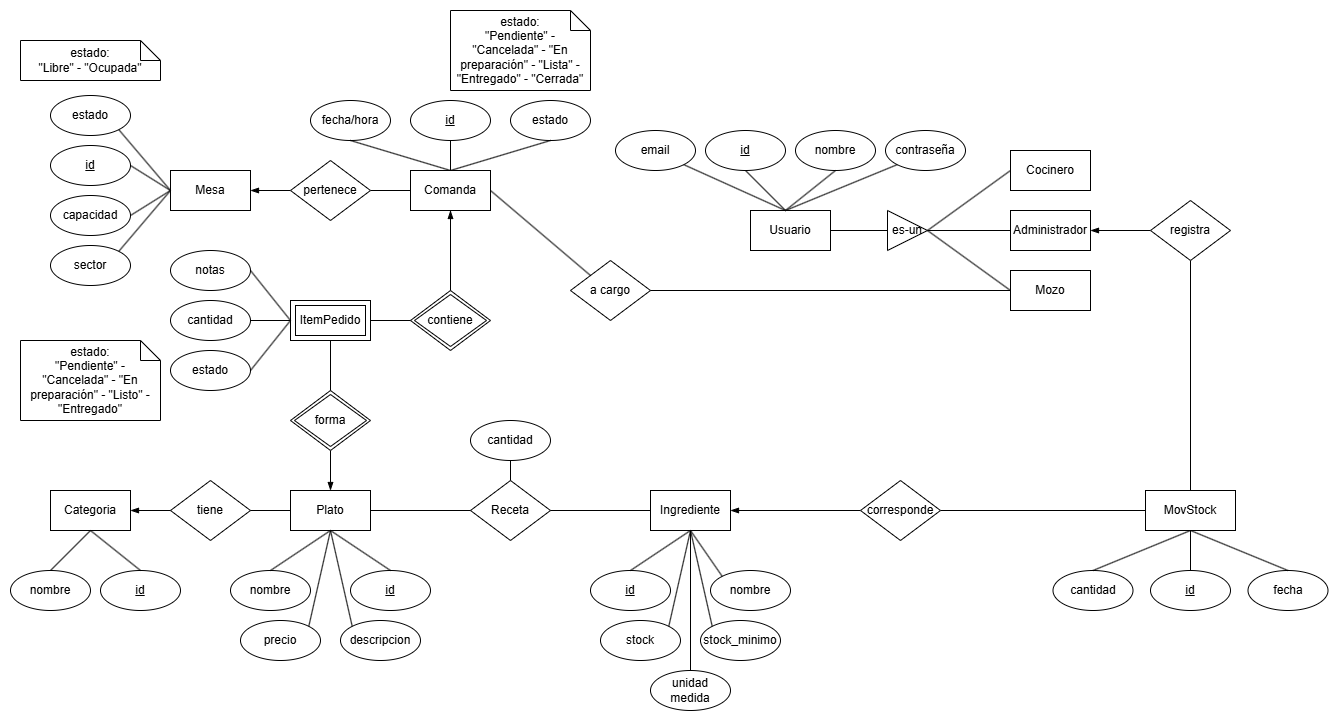
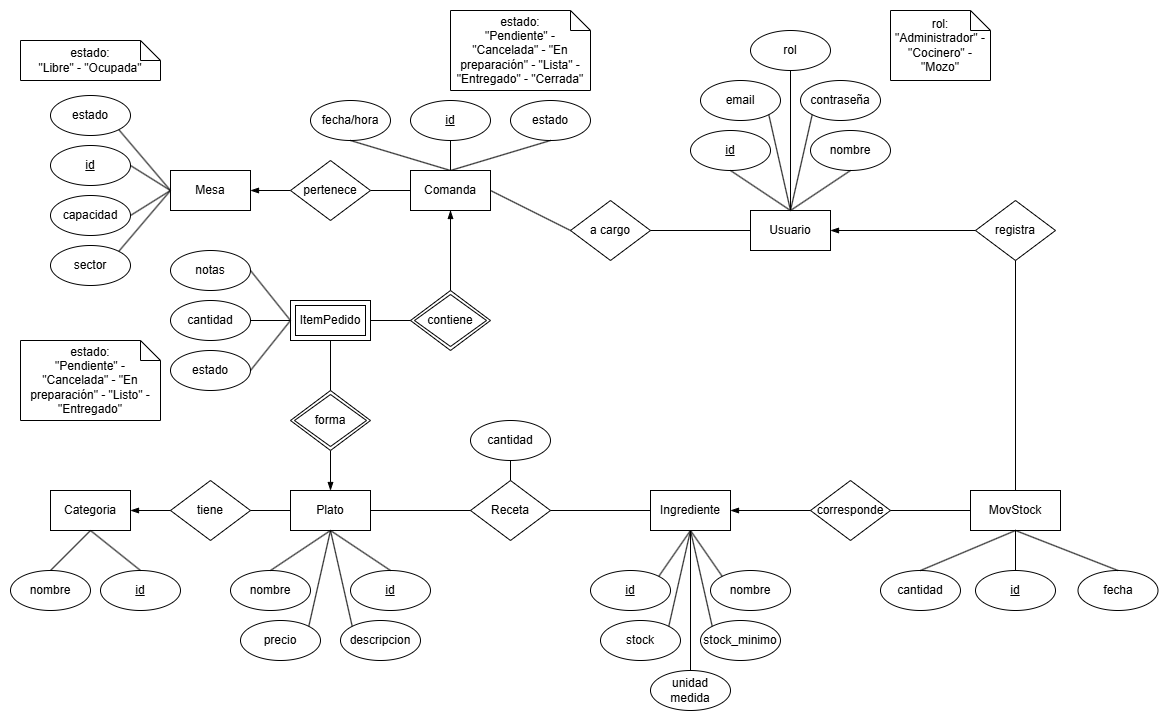
Actualización diagrama ER

diff --git a/README.md b/README.md
@@ -1,6 +1,6 @@
-# Proyecto-Arqui-Grupo7
+# Sistema de Gestión de Restaurante 🧑🍳
 
-Proyecto desarrollado para la materia **Arquitectura y Diseño de Sistemas** (DCIC - UNS).
+Proyecto desarrollado para la materia **Arquitectura y Diseño de Sistemas** (DCIC - UNS).  
 Se trata de una aplicación web para un Sistema de Gestión de Restaurante
 
 ---
@@ -33,5 +33,5 @@ Se trata de una aplicación web para un Sistema de Gestión de Restaurante
 
 ## Créditos
 
-Grupo 7 - Arquitectura y Diseño de Sistemas - 2026
+Grupo 7 - Arquitectura y Diseño de Sistemas - 2026  
 Departamento de Ciencias e Ingeniería de la Computación - Universidad Nacional del Sur